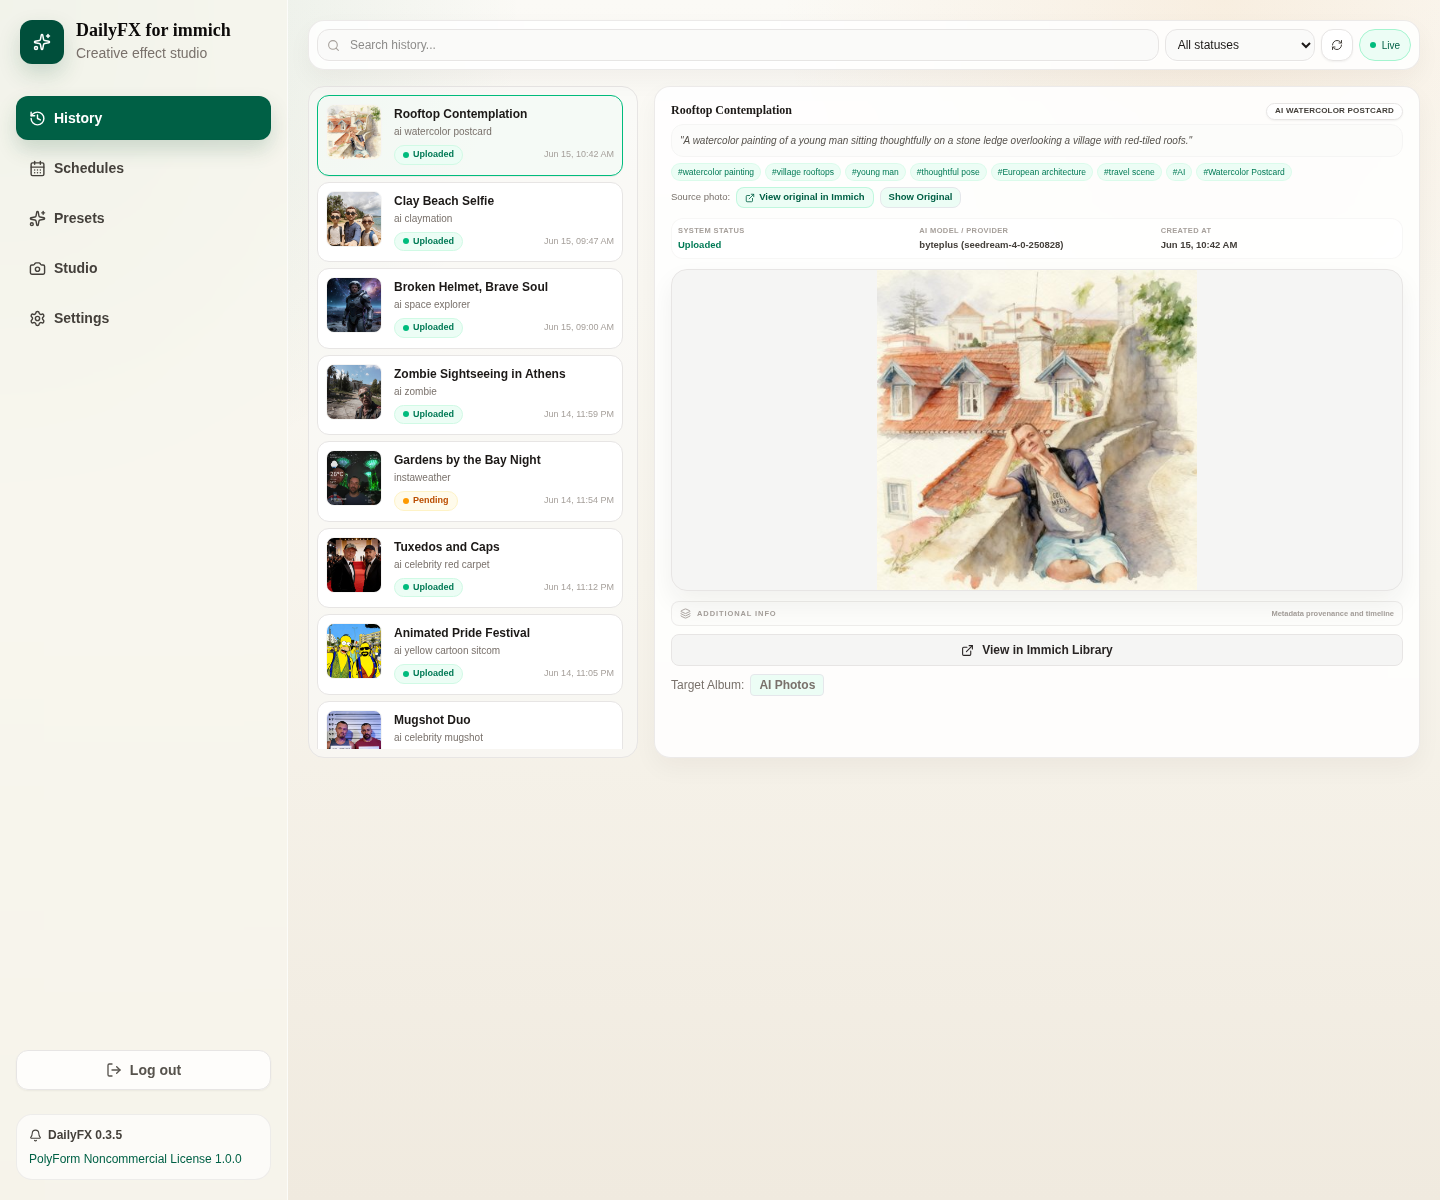
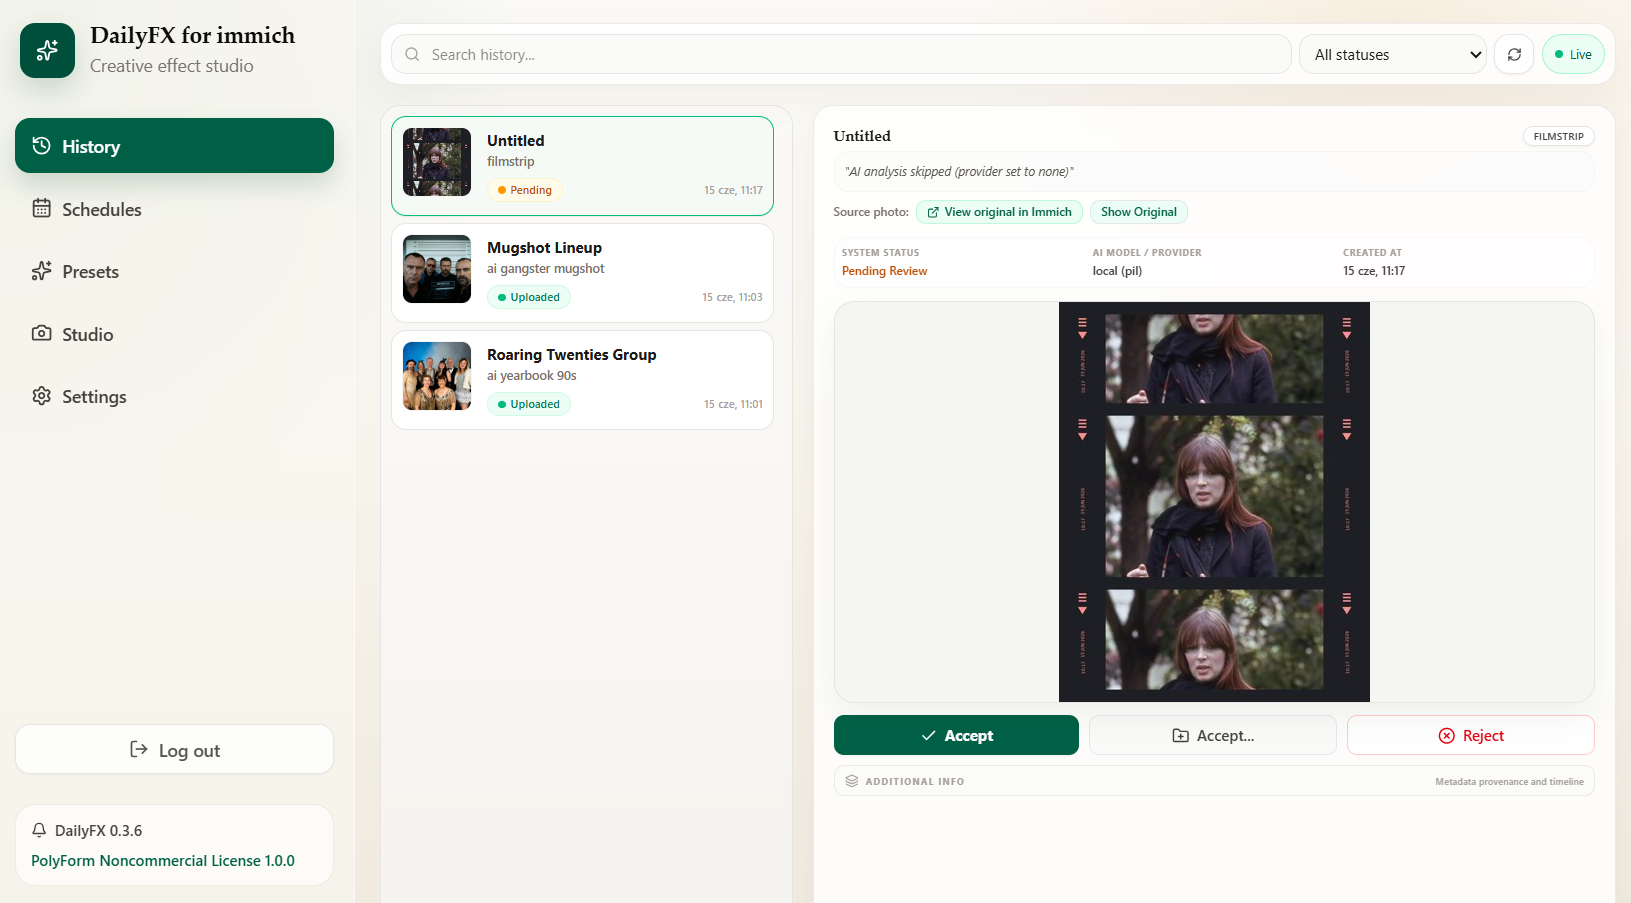
docs: update frontend docs and screenshots

diff --git a/docs/frontend.md b/docs/frontend.md
@@ -33,19 +33,9 @@ Desktop
 Mobile
 ![History mobile](./screenshots/history-mobile.png)
 
-### Schedules
-Desktop
-![Schedules desktop](./screenshots/schedules-desktop.png)
-
-Mobile
-![Schedules mobile](./screenshots/schedules-mobile.png)
-
 ### Settings
 Desktop
 ![Settings desktop](./screenshots/settings-desktop.png)
-
-Mobile
-![Settings mobile](./screenshots/settings-mobile.png)
 
 ## Data Flow
 - The app fetches most data through `/api/*` endpoints defined in [frontend/src/api/client.ts](../frontend/src/api/client.ts).